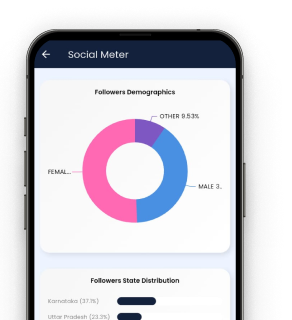
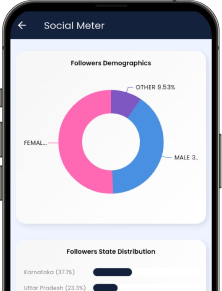
Update influencer images, enhance layout, and improve search functionality
- Added .env to .gitignore to prevent local environment files from being tracked.
- Updated image sources in CreatorFeatures component for better visual consistency.
- Adjusted layout styles for improved spacing and responsiveness in various components.
- Enhanced the influencer search functionality to handle no match scenarios and provide user feedback.
- Updated button elements to use anchor tags for better navigation and accessibility.

diff --git a/src/components/MeetOurInfluencers.tsx b/src/components/MeetOurInfluencers.tsx
@@ -17,6 +17,7 @@ const MeetOurInfluencers = () => {
   const [showSuggestions, setShowSuggestions] = useState(false)
   const [allInfluencers, setAllInfluencers] = useState<Influencer[]>([])
   const [isSearching, setIsSearching] = useState(false)
+  const [noMatchFound, setNoMatchFound] = useState(false)
 
   // Sample influencer data for the scrolling animation
   const sampleInfluencers = [
@@ -95,24 +96,52 @@ const MeetOurInfluencers = () => {
   const handleSearchChange = (e: React.ChangeEvent<HTMLInputElement>) => {
     const query = e.target.value
     setSearchQuery(query)
+    setNoMatchFound(false) // Reset no match found state when typing
     debouncedSearch(query)
   }
 
   const handleSuggestionClick = (influencer: Influencer) => {
-    console.log('Clicked on influencer:', influencer.username)
-    console.log('Navigation URL:', `/influencer/${influencer.username}`)
+    console.log('Selected influencer:', influencer.username)
     setSearchQuery(influencer.username)
     setShowSuggestions(false)
+    setNoMatchFound(false) // Reset no match found state when selecting suggestion
+    // No navigation here - just select the influencer
+  }
+
+  const handleNavigateToSelectedInfluencer = () => {
+    if (!searchQuery.trim()) return
     
-    // Try multiple navigation methods
-    try {
-      // Method 1: Direct window location
-      window.location.href = `/influencer/${influencer.username}`
-      console.log('Navigation attempted with window.location.href')
-    } catch (error) {
-      console.error('Navigation error:', error)
-      // Method 2: Using window.open as fallback
-      window.open(`/influencer/${influencer.username}`, '_self')
+    // Find the exact influencer that matches the search query
+    const exactMatch = allInfluencers.find(influencer => 
+      influencer.username.toLowerCase() === searchQuery.toLowerCase()
+    )
+    
+    if (exactMatch) {
+      console.log('Navigating to influencer:', exactMatch.username)
+      window.location.href = `/influencer/${exactMatch.username}`
+    }
+  }
+
+  const handleSearchButtonClick = () => {
+    if (!searchQuery.trim()) return
+    
+    // Check if there are any suggestions available for this search query
+    const queryLower = searchQuery.toLowerCase()
+    const availableSuggestions = allInfluencers.filter(influencer => {
+      const username = influencer.username?.toLowerCase() || ''
+      const categories = influencer.categories_combined?.toLowerCase() || ''
+      return username.includes(queryLower) || categories.includes(queryLower)
+    })
+    
+    if (availableSuggestions.length > 0) {
+      // There are suggestions available, user should select from dropdown
+      setShowSuggestions(true)
+      console.log('Suggestions available, user should select from dropdown')
+    } else {
+      // No suggestions available, show no match found
+      console.log('No match found for:', searchQuery)
+      setNoMatchFound(true)
+      setShowSuggestions(false)
     }
   }
 
@@ -328,7 +357,7 @@ const MeetOurInfluencers = () => {
                  />
                 
                 {/* Suggestions Dropdown */}
-                {showSuggestions && (
+                {showSuggestions && searchQuery.trim().length > 0 && (
                   <div 
                     className="absolute top-full left-0 right-0 mt-2 bg-white rounded-xl shadow-lg border border-gray-200 max-h-96 overflow-y-auto z-50"
                     onMouseDown={(e) => e.preventDefault()}
@@ -401,6 +430,53 @@ const MeetOurInfluencers = () => {
                   </div>
                 )}
                </div>
+              
+              {/* Search Button */}
+              <div className="flex flex-col items-center space-y-3">
+                <button
+                  onClick={noMatchFound ? handleSearchButtonClick : handleNavigateToSelectedInfluencer}
+                  disabled={isSearching || !searchQuery.trim()}
+                  className="px-8 py-3 rounded-xl font-semibold text-white transition-colors duration-200 disabled:opacity-50 disabled:cursor-not-allowed"
+                  style={{
+                    backgroundColor: noMatchFound ? '#DC2626' : '#FCA311',
+                    fontSize: 'clamp(14px, 2.5vw, 18px)',
+                    boxShadow: noMatchFound ? '0 4px 15px rgba(220, 38, 38, 0.3)' : '0 4px 15px rgba(252, 163, 17, 0.3)'
+                  }}
+                  onMouseEnter={(e) => {
+                    if (!isSearching && !noMatchFound) {
+                      e.currentTarget.style.backgroundColor = '#E6930F' // Darker orange on hover
+                    }
+                  }}
+                  onMouseLeave={(e) => {
+                    if (!isSearching && !noMatchFound) {
+                      e.currentTarget.style.backgroundColor = '#FCA311' // Back to original orange
+                    }
+                  }}
+                >
+                  {isSearching ? (
+                    <div className="flex items-center gap-2">
+                      <div className="animate-spin rounded-full h-4 w-4 border-b-2 border-white"></div>
+                      <span>Searching...</span>
+                    </div>
+                  ) : noMatchFound ? (
+                    'No Influencer Found'
+                  ) : (
+                    'Go to Influencer'
+                  )}
+                </button>
+                
+                {noMatchFound && (
+                  <p className="text-red-600 text-sm text-center">
+                    No influencer found with the name "{searchQuery}". Please try a different search term.
+                  </p>
+                )}
+                
+                {searchQuery.trim() && !noMatchFound && suggestions.length === 0 && (
+                  <p className="text-gray-600 text-sm text-center">
+                    Type at least 2 characters to see suggestions, then select an influencer to visit their page.
+                  </p>
+                )}
+              </div>
              </div>
            </div>
          </div>

diff --git a/src/components/CreatorFeatures.tsx b/src/components/CreatorFeatures.tsx
@@ -7,7 +7,7 @@ const CreatorFeatures = () => {
     <section>
       {/* Main Heading */}
       <div className="px-4 sm:px-6 lg:px-12 xl:px-16 pb-16">
-        <div className="text-center mb-16">
+        <div className="text-center mb-16 mt-10">
           <h2 style={{
             fontFamily: 'Inter',
             fontWeight: 700,
@@ -62,11 +62,12 @@ const CreatorFeatures = () => {
                   From nano to mega Influencers, Connect with brands across all industries, AI driven matching, direct brand contact, and control over your contract terms, fast, fun, and flexible.
                 </p>
               </div>
-              <div className="lg:w-5/12 h-full mx-auto">
+              <div className="h-full mx-auto">
                 <img 
                   src="/images/influencers/iphone-2.png" 
                   alt="iPhone Interface" 
-                  className="w-full h-full object-cover"
+                  className="h-full object-cover"
+                  style={{ padding: '30px 30px 0 30px', width: '350px' }}
                 />
               </div>
             </div>
@@ -118,11 +119,12 @@ const CreatorFeatures = () => {
             <div className="lg:w-7/12 rounded-2xl overflow-hidden flex flex-col lg:flex-row hover:shadow-lg transition-shadow duration-300" style={{
               background: 'linear-gradient(90deg, #FACC15 0%, #FCA311 100%)'
             }}>
-              <div className="lg:w-5/12 h-full mx-auto">
+              <div className="h-full mx-auto">
                 <img 
                   src="/images/influencers/iphone-3.png" 
                   alt="iPhone Interface" 
-                  className="w-full h-full object-cover"
+                  className="h-full object-cover"
+                  style={{ padding: '30px 30px 0 30px', width: '350px' }}
                 />
               </div>
               <div className="p-8 lg:w-7/12 flex flex-col justify-center">
@@ -672,13 +674,22 @@ const CreatorFeatures = () => {
           {/* Download Buttons */}
           <div className="flex flex-col sm:flex-row gap-4 justify-center items-center">
             {/* Google Play Button */}
-            <button 
-              className="flex items-center text-white rounded-lg hover:opacity-90 transition-opacity"
+            <a 
+              href="https://play.google.com/store/apps/details?id=com.swaykart.app&pcampaignid=web_share"
+              target="_blank"
+              rel="noopener noreferrer"
+              className="flex items-center text-white rounded-lg transition-all duration-200 hover:shadow-lg"
               style={{ 
                 backgroundColor: '#FCA311',
                 minWidth: 'clamp(140px, 20vw, 180px)',
                 minHeight: 'clamp(40px, 6vw, 56px)',
                 padding: 'clamp(8px, 1.5vw, 16px) clamp(16px, 2.5vw, 24px)'
+              }}
+              onMouseEnter={(e) => {
+                e.currentTarget.style.backgroundColor = '#E6930F'
+              }}
+              onMouseLeave={(e) => {
+                e.currentTarget.style.backgroundColor = '#FCA311'
               }}
             >
               <svg className="mr-3" viewBox="0 0 24 24" fill="currentColor" style={{ width: 'clamp(20px, 3vw, 24px)', height: 'clamp(20px, 3vw, 24px)' }}>
@@ -688,7 +699,7 @@ const CreatorFeatures = () => {
                 <div style={{ fontSize: 'clamp(14px, 2vw, 16px)', lineHeight: 'clamp(16px, 2.5vw, 18px)' }}>Get it on</div>
                 <div style={{ fontSize: 'clamp(14px, 2.5vw, 18px)', fontWeight: 600, lineHeight: 'clamp(16px, 3vw, 20px)' }}>Google Play</div>
               </div>
-            </button>
+            </a>
             
             {/* App Store Button */}
             <button 

diff --git a/src/components/InfluencersHero.tsx b/src/components/InfluencersHero.tsx
@@ -83,8 +83,11 @@ const InfluencersHero = (): JSX.Element => {
 
           {/* CTA Buttons */}
           <div className="flex flex-col sm:flex-row gap-4 justify-center mt-8 mb-6">
-            <button
-              className="px-6 py-3 sm:px-8 sm:py-4 rounded-lg transition-colors duration-200 flex items-center justify-center gap-2"
+            <a
+              href="https://play.google.com/store/apps/details?id=com.swaykart.app&pcampaignid=web_share"
+              target="_blank"
+              rel="noopener noreferrer"
+              className="px-6 py-3 sm:px-8 sm:py-4 rounded-lg transition-all duration-200 flex items-center justify-center gap-2 hover:shadow-lg"
               style={{
                 background: 'rgba(252, 163, 17, 1)',
                 fontFamily: 'Inter, sans-serif',
@@ -97,12 +100,20 @@ const InfluencersHero = (): JSX.Element => {
                 minHeight: 'clamp(40px, 6vw, 56px)',
                 padding: 'clamp(8px, 1.5vw, 16px) clamp(16px, 3vw, 32px)'
               }}
+              onMouseEnter={(e) => {
+                e.currentTarget.style.background = 'rgba(230, 147, 15, 1)'
+                e.currentTarget.style.borderColor = 'rgba(230, 147, 15, 1)'
+              }}
+              onMouseLeave={(e) => {
+                e.currentTarget.style.background = 'rgba(252, 163, 17, 1)'
+                e.currentTarget.style.borderColor = 'rgba(252, 163, 17, 1)'
+              }}
             >
               <svg xmlns="http://www.w3.org/2000/svg" x="0px" y="0px" viewBox="0 0 30 30" style={{ width: 'clamp(18px, 3vw, 20px)', height: 'clamp(18px, 3vw, 20px)' }}>
                 <path fill="#FFFFFF" d="M 7.6230469 3.2109375 L 18 13.585938 L 20.677734 10.908203 C 17.018734 8.6882031 12.118063 5.7100938 9.9140625 4.3710938 L 8.4375 3.4765625 C 8.1765 3.3175625 7.8970469 3.2319375 7.6230469 3.2109375 z M 6.0390625 4.453125 C 6.0180625 4.567125 6 4.6816875 6 4.8046875 L 6 25.308594 C 6 25.394594 6.0172969 25.474641 6.0292969 25.556641 L 16.585938 15 L 6.0390625 4.453125 z M 22.4375 11.976562 L 19.414062 15 L 22.384766 17.970703 C 23.958766 17.016703 25.048922 16.35425 25.169922 16.28125 C 25.704922 15.95425 26.007047 15.460875 25.998047 14.921875 C 25.990047 14.392875 25.687828 13.919906 25.173828 13.628906 C 25.058828 13.562906 23.9835 12.913563 22.4375 11.976562 z M 18 16.414062 L 7.6542969 26.759766 C 7.8552969 26.724766 8.0560469 26.664828 8.2480469 26.548828 C 8.5140469 26.386828 15.7 22.027062 20.625 19.039062 L 18 16.414062 z"></path>
               </svg>
               Get it on Google Play
-            </button>
+            </a>
             <button
               className="px-6 py-3 sm:px-8 sm:py-4 rounded-lg transition-colors duration-200 flex items-center justify-center gap-2"
               style={{
@@ -145,7 +156,7 @@ const InfluencersHero = (): JSX.Element => {
                 position: 'absolute',
                 left: '50%',
                 transform: 'translateX(-50%)',
-                width: 'clamp(280px, 30vw, 450px)',
+                width: 'clamp(280px, 30vw, 350px)',
                 height: 'clamp(220px, 25vw, 350px)',
                 display: 'flex',
                 justifyContent: 'center',
@@ -160,7 +171,7 @@ const InfluencersHero = (): JSX.Element => {
                     width: '100%',
                     height: 'auto',
                     transform: 'translateY(0%)',
-                    maxWidth: '450px'
+                    maxWidth: '350px'
                   }}
                 />
               </div>

diff --git a/src/components/Hero.tsx b/src/components/Hero.tsx
@@ -83,10 +83,11 @@ const Hero = () => {
             </p>
           </div>
           
-          {/* CTA Buttons */}
-          <div className="flex flex-col sm:flex-row gap-4 justify-center mt-8 mb-6">
-            <button
-              className="px-6 py-3 sm:px-8 sm:py-4 rounded-lg transition-colors duration-200 h-12 sm:h-14"
+          {/* CTA Button */}
+          <div className="flex justify-center mt-8 mb-6">
+            <a
+              href="#contact-us"
+              className="px-6 py-3 sm:px-8 sm:py-4 rounded-lg transition-all duration-200 h-12 sm:h-14 hover:shadow-lg"
               style={{
                 background: 'rgba(252, 163, 17, 1)',
                 fontFamily: 'Inter, sans-serif',
@@ -95,25 +96,23 @@ const Hero = () => {
                 lineHeight: '100%',
                 textAlign: 'center',
                 color: '#FFFFFF',
-                border: '1px solid rgba(252, 163, 17, 1)'
+                border: '1px solid rgba(252, 163, 17, 1)',
+                textDecoration: 'none',
+                display: 'inline-flex',
+                alignItems: 'center',
+                justifyContent: 'center'
+              }}
+              onMouseEnter={(e) => {
+                e.currentTarget.style.background = 'rgba(230, 147, 15, 1)'
+                e.currentTarget.style.borderColor = 'rgba(230, 147, 15, 1)'
+              }}
+              onMouseLeave={(e) => {
+                e.currentTarget.style.background = 'rgba(252, 163, 17, 1)'
+                e.currentTarget.style.borderColor = 'rgba(252, 163, 17, 1)'
               }}
             >
-              Start Free Trial
-            </button>
-            <button
-              className="px-6 py-3 sm:px-8 sm:py-4 rounded-lg transition-colors duration-200 h-12 sm:h-14 flex items-center justify-center"
-              style={{
-                backgroundColor: '#ffffff',
-                border: '2px solid rgba(20, 33, 61, 1)',
-                fontFamily: 'Inter, sans-serif',
-                fontWeight: 600,
-                fontSize: 'clamp(16px, 4vw, 18px)',
-                textAlign: 'center',
-                color: '#14213D'
-              }}
-            >
-              See How It Works
-            </button>
+              Contact Us
+            </a>
           </div>
           
           {/* Social Proof */}

diff --git a/src/components/GetStartedSection.tsx b/src/components/GetStartedSection.tsx
@@ -23,7 +23,7 @@ const GetStartedSection = () => {
   }
 
   return (
-    <section className="py-20 lg:py-24" style={{ background: 'linear-gradient(90deg, #14213D 0%, #1E3A8A 100%)' }}>
+    <section id="contact-us" className="py-20 lg:py-24" style={{ background: 'linear-gradient(90deg, #14213D 0%, #1E3A8A 100%)' }}>
       <div className="max-w-7xl mx-auto px-4 sm:px-6 lg:px-8">
         <div className="bg-white rounded-2xl overflow-hidden shadow-2xl">
           <div className="grid lg:grid-cols-2 min-h-[500px]">
@@ -54,32 +54,6 @@ const GetStartedSection = () => {
                  Join 2,000+ brands using Swaykart to discover creators, run campaigns, and measure results with complete clarity.
                </p>
 
-               <button className="mb-4 px-8 py-4 rounded-lg transition-colors duration-200" style={{
-                 fontFamily: 'Inter',
-                 fontWeight: 600,
-                 fontSize: 'clamp(14px, 2.5vw, 16px)',
-                 lineHeight: '100%',
-                 letterSpacing: '0%',
-                 textAlign: 'center',
-                 color: '#FFFFFF',
-                 backgroundColor: '#FCA311',
-                 border: 'none',
-                 width: 'fit-content'
-               }}>
-                 Start Free Trial
-               </button>
-
-               <p style={{
-                 fontFamily: 'Inter',
-                 fontWeight: 400,
-                 fontSize: 'clamp(14px, 2vw, 16px)',
-                 lineHeight: 'clamp(16px, 3vw, 20px)',
-                 letterSpacing: '0%',
-                 textAlign: 'center',
-                 color: '#6B7280'
-               }}>
-                 No credit card required. 14-day free trial.
-               </p>
             </div>
 
             {/* Right Section - Signup Form */}

diff --git a/src/app/layout.tsx b/src/app/layout.tsx
@@ -6,9 +6,9 @@ export const metadata: Metadata = {
   title: 'SwayKart - Impact Marketing Platform',
   description: 'Discover the right creators, launch campaigns faster, and watch your brand grow with clarity. Our AI-driven platform takes the guesswork out of influencer marketing. Over 20,000+ Influencers from India.',
   icons: {
-    icon: '/favicon.ico',
-    shortcut: '/favicon.ico',
-    apple: '/favicon.ico',
+    icon: '/images/logo/logo.webp',
+    shortcut: '/images/logo/logo.webp',
+    apple: '/images/logo/logo.webp',
   },
 }
 
